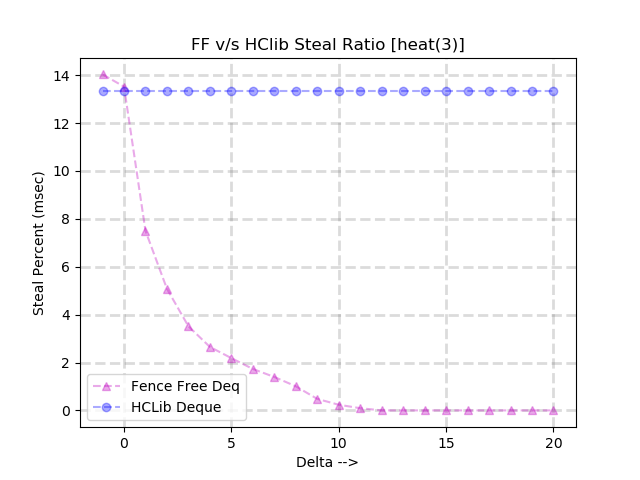
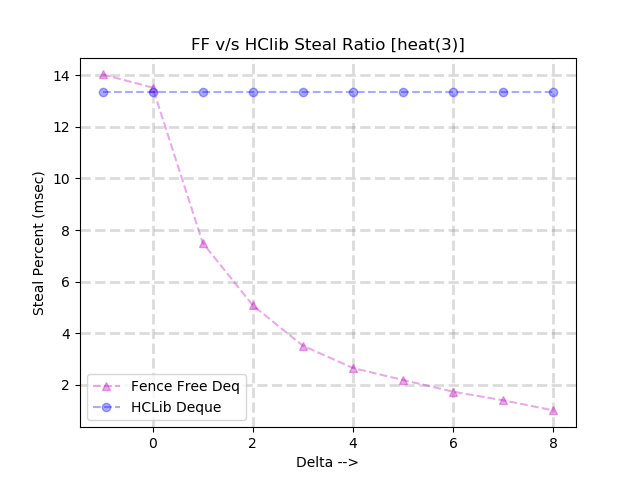
Corrected zoomed plots

diff --git a/FenceFree_Deq/plot_graphs.py b/FenceFree_Deq/plot_graphs.py
@@ -101,7 +101,7 @@ def plotting(hclib, design, y_axis, l=0, r=len(delta)):
     print(delta[l:r])
     print(y_axis[l:r])
     print("--------------------------------------------\n")
-    plt.plot(delta,y_axis, design, alpha=1/3)
+    plt.plot(delta[l:r],y_axis[l:r], design, alpha=1/3)
     
 """ def set_plot_save(title, ylab, FF_yaxis, hclib_yaxis):
     set_plot(title,ylab)
